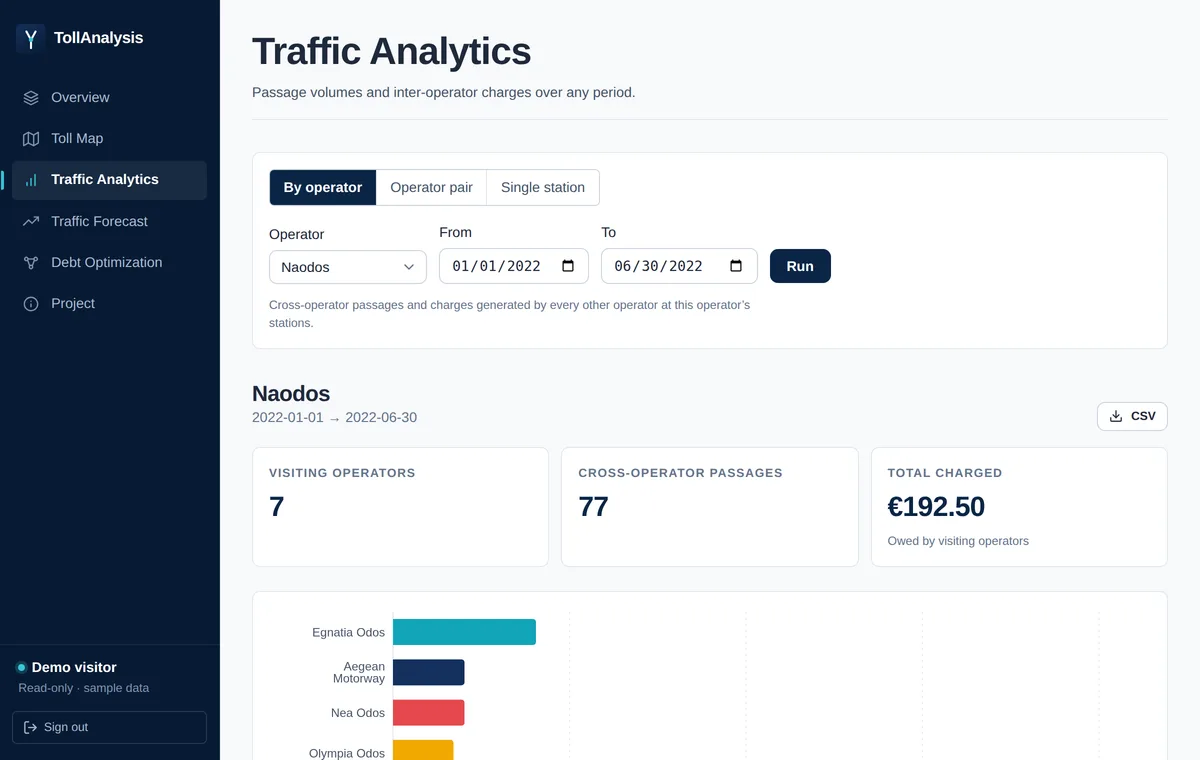
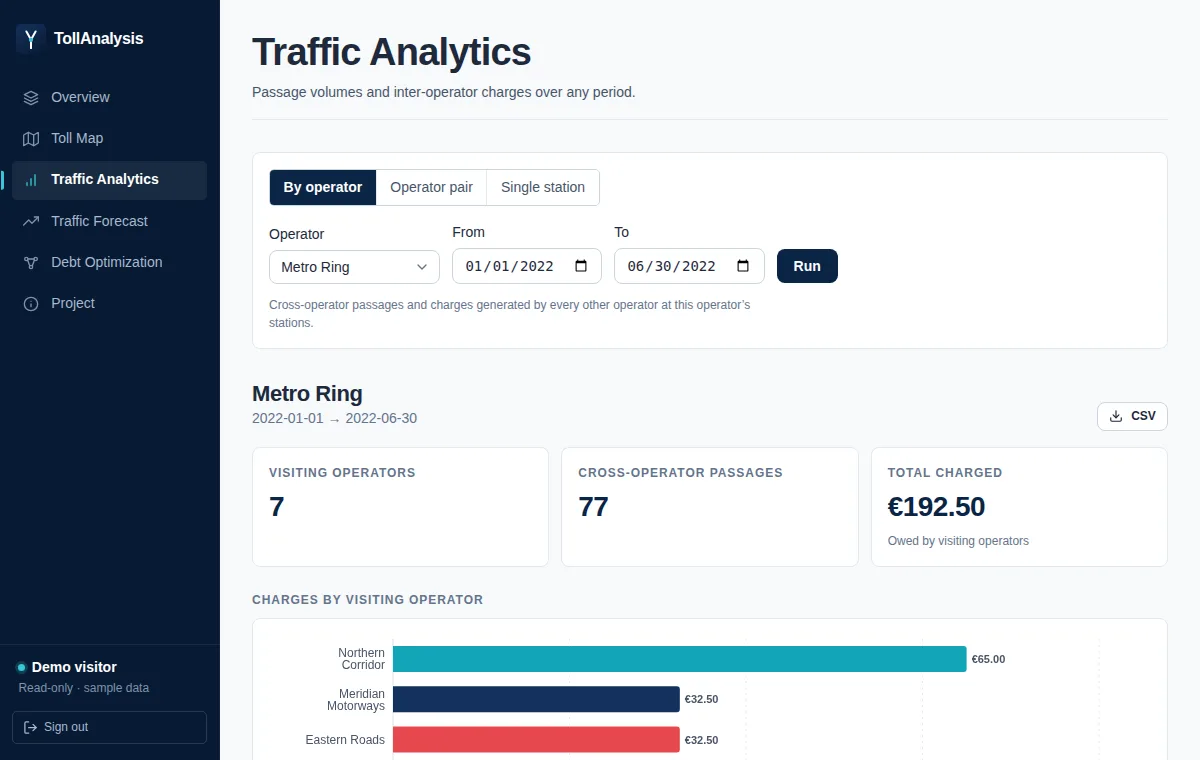
docs(readme): prepare portfolio entry point and verified demo guide

diff --git a/README.md b/README.md
@@ -1,126 +1,170 @@
-# Toll Passages Management and Analysis WebApp
+# TollAnalysis
 
-A full-stack web application for managing and analyzing toll passages in Greece. Developed as part of the Software Engineering course at ECE NTUA by Dimitris Thivaios, Dimitris Liakis, Vassilis Anastasiadis, and Stavros.
+**An interactive full-stack platform for exploring toll stations, traffic flows, cross-operator charges, and settlement networks across a Greek-inspired road system.**
 
----
+TollAnalysis is an independent educational portfolio application with a secured, read-only public-demo mode. It is deployment-ready, but no public deployment is currently running.
 
-## 🚀 Features
+> Passages, debts, contacts, and public operator names are fictional. Geography is used for demonstration only; this project is not affiliated with, endorsed by, or operated by any Greek motorway operator.
 
-- Interactive map of Greece with all toll stations (Leaflet.js)
-- Predictions of car flows using Machine Learning models
-- Statistics for all tolling companies
-- Debt optimization between companies (cross e-pass usage)
-- CLI client for admin and company management
-- API documentation (Swagger/OpenAPI)
-- Comprehensive testing (Jest)
+## Product preview
 
----
+| Overview | Toll Map | Traffic Analytics |
+| --- | --- | --- |
+| ![Overview](front-end/src/assets/shot-overview.webp) | ![Toll Map](front-end/src/assets/shot-map.webp) | ![Traffic Analytics](front-end/src/assets/shot-analytics.webp) |
 
-## 🛠 Technology Stack
+The browser demo also includes Forecasting Integration and an interactive before/after PyVis debt-optimization graph. Start it with **Explore Live Demo**; no password is published or required. After starting a session, the graph is available at [`/debts`](http://localhost:9115/debts).
 
-- **Backend:** Node.js / Express (REST API)
-- **Frontend:** React.js
-- **Database:** MySQL
-- **Machine Learning:** scikit-learn (Python)
-- **Testing:** Jest
+## What it does
 
----
+- Explores 253 toll stations across eight fictional display operators.
+- Analyses operator totals, operator pairs, and individual-station passages; supported views export CSV.
+- Runs pre-trained Python/scikit-learn volume and peak-hour inference.
+- Shows a precomputed debt-netting result as a settlement table and interactive before/after graph.
+- Provides a short-lived, platform-wide, read-only demo identity.
 
-## 📦 Setup Instructions
+## Features and access
 
-### 1. Clone the Repository
+Landing/demo entry starts `POST /api/auth/demo-login` with no input. The app includes Overview, a clustered/filterable Toll Map, three Traffic Analytics modes (by operator, pair, station), Forecasting Integration, Debt Optimization with a sandboxed PyVis graph, and a Project/methodology page.
+
+| Capability | Anonymous browser visitor | Read-only demo user | Company user (local) | Admin (local) |
+| --- | ---: | ---: | ---: | ---: |
+| Landing, Project, and static content | yes | yes | yes | yes |
+| Browser Toll Map (`/map`) | yes | yes | yes | yes |
+| Public toll data API (`GET /api/tolls`) | yes | yes | yes | yes |
+| Authenticated Overview | no | yes | yes | yes |
+| Analytics and forecasting | no | yes | yes, subject to company scope when enabled | yes |
+| Debt visualization | no | yes | yes | yes |
+| Upload/import, training, reset, and other mutations | no | no | no | admin only when explicitly enabled |
+
+An anonymous visitor can open the browser map directly; it reads the intentionally public `GET /api/tolls` endpoint. That is the only unauthenticated toll/traffic data endpoint. Health, liveness, public configuration, and API documentation endpoints are also unauthenticated, but expose operational metadata or documentation rather than traffic data. All other application pages that show analytics, forecasts, or debts require a valid demo or local-user session.
+
+Stable internal codes (`AM`, `EG`, `GE`, `KO`, `MO`, `NAO`, `NO`, `OO`) and legacy role strings remain for API, database, and model compatibility; they are identifiers, not public brands.
+
+| Code | Fictional display alias |
+| --- | --- |
+| AM | Meridian Motorways |
+| EG | Northern Corridor |
+| GE | Gulf Crossing |
+| KO | Central Routes |
+| MO | Southern Link |
+| NAO | Metro Ring |
+| NO | Eastern Roads |
+| OO | Western Corridor |
+
+## Architecture
+
+```mermaid
+flowchart LR
+  B[Browser / React] -->|same origin /api| E[Express API]
+  E --> M[(Private MySQL)]
+  E --> P[Packaged Python inference]
+  P --> A[Versioned ML artifacts]
+  E -->|serves| B
+```
+
+One container serves the React build and Express API on the same origin, avoiding browser CORS complexity. MySQL remains private behind that application endpoint.
+
+## Engineering highlights
+
+Stavros Mitropoulos completed the later `portfolio-demo` overhaul; the original team-project attribution is retained below.
+
+- **Product and demo experience:** responsive React pages, a public Toll Map, and a short-lived read-only demo session with no published credentials.
+- **Full-stack architecture:** one same-origin application container serves the React build and Express API, backed by a private MySQL service with deterministic initialization and pooled connections.
+- **Authentication and authorization:** JWT-based roles separate demo, company, and admin capabilities; operator-scoped analytics can enforce company isolation.
+- **Runtime security and reliability:** production configuration fails closed, destructive operations can be disabled, health endpoints distinguish liveness from database readiness, and user-facing errors avoid internals.
+- **ML inference integration:** versioned Python/scikit-learn artifacts are invoked through bounded inference requests and documented with chronological evaluation and explicit sample-data limits.
+- **Testing and reproducibility:** frontend, backend, disposable-database integration, ML-container, browser-journey, and visual smoke checks cover the packaged stack.
+- **Deployment readiness:** Docker Compose, environment/secrets guidance, database lifecycle notes, and platform health checks support a future deployment without claiming one exists today.
+
+## Honest ML scope
+
+The included dataset has **1,002 fictional/sample passages across about 15 dates**. The models are not production-grade traffic predictors and often do not outperform simple baselines. They demonstrate reproducible preprocessing, artifact versioning, inference serving, and honest evaluation. A real system would need substantially more real historical data. See [ML methodology](docs/ML_METHODOLOGY.md).
+
+## Quick start
+
+These commands assume the completed repository has been cloned from its default `main` branch.
 
 ```bash
-git clone https://github.com/ntua/softeng24-14.git
+git clone https://github.com/StavrosMitro/TollAnalysisWebApp.git
 cd TollAnalysisWebApp
+export JWT_SECRET="$(openssl rand -hex 32)"
+export PUBLIC_DEMO_MODE=true
+export DISABLE_DESTRUCTIVE_OPS=true
+docker compose up --build -d
+curl -fsS http://localhost:9115/livez
+curl -fsS http://localhost:9115/healthz
 ```
 
-### 2. Database Setup (MySQL)
+Open <http://localhost:9115>, then click **Explore Live Demo**. Stop without deleting local data: `docker compose down`.
 
-- Install MySQL Server (v5.7+ recommended).
-- Create and populate the database:
-  - Go to `/uploads` and run:
-    ```bash
-    python3 passages2mysql.py passes14.csv
-    ```
-  - In `/Database_mysql`, import schema and data:
-    ```bash
-    mysql -u root -p < schema.sql
-    mysql -u root -p < data.sql
-    ```
-- See `/Database_mysql/README.md` for detailed steps.
+To remove the local database volume, use `docker compose down -v` only after confirming this is the disposable local demonstration stack; it permanently deletes local data.
 
-### 3. Backend Setup
+## Demo API examples
+
+Set `BASE` to `http://localhost:9115` locally (replace it with the future live URL when available).
 
 ```bash
-cd back-end
-npm install
-node server.js
+BASE=http://localhost:9115
+TOKEN="$(curl -fsS -X POST "$BASE/api/auth/demo-login" | jq -er '.token')"
+
+curl -fsS -H "x-observatory-auth: $TOKEN" \
+  "$BASE/api/chargesBy/NAO/20220101/20220114" | jq .
+curl -fsS -H "x-observatory-auth: $TOKEN" \
+  "$BASE/api/forecast/NAO/20220114" | jq .
+curl -fsS "$BASE/api/tolls" | jq '.[0:3]'
+
+# The demo identity is not an admin identity, so this mutation is denied: 403.
+curl -sS -o /dev/null -w '%{http_code}\n' -X POST \
+  -H "x-observatory-auth: $TOKEN" "$BASE/api/upload_passages"
 ```
 
-### 4. Frontend Setup
+Browser sessions are short-lived, fictional, platform-wide, and read-only.
+
+## Configuration, testing, and deployment
+
+Use [`.env.example`](.env.example) for local Compose overrides. Important non-secret settings include `PUBLIC_DEMO_MODE`, `DISABLE_DESTRUCTIVE_OPS`, `TRUST_PROXY`, inference timeout/concurrency, and port/database host settings. `JWT_SECRET` and `PASSWORD` are secrets and belong in a provider secret store, never Git.
 
 ```bash
-cd front-end
-npm install
-npm start
+cd front-end && CI=true npm test -- --watchAll=false && CI=true npm run build
+cd ../back-end && npm test -- --runInBand && npm run test:integration # Docker required
+cd ..
+docker compose --profile ml run --rm ml -m ml.tests
+docker compose --profile ml run --rm ml -m ml.smoke_test
+cd front-end && npm run visual-check # running stack + Chromium required
 ```
 
-### 5. CLI Client Setup
+Deploy one application container beside private persistent MySQL, store secrets with the provider, import the fictional seed once into an empty database, configure `/healthz`, and retain backups. Public mode requires `PUBLIC_DEMO_MODE=true` and `DISABLE_DESTRUCTIVE_OPS=true`. Railway is currently recommended, not an existing deployment. See the [deployment runbook](docs/DEPLOYMENT.md).
 
-```bash
-cd cli-client
-npm install
-npm link
-se2414 --help
+## Repository map and documentation
+
+```text
+front-end/       React application, assets, tests, visual checker
+back-end/        Express API, auth, ML bridge, tests, Docker runtime source
+db/init/         deterministic schema and fictional Compose seed
+docs/            deployment, authorization, ML, debt, and asset documentation
+Database_mysql/  preserved academic SQL/material and source data
+cli-client/      legacy course CLI client
 ```
 
----
+- [Swagger/OpenAPI](http://localhost:9115/api/docs) (when local stack runs)
+- [Authorization matrix](docs/AUTHORIZATION.md)
+- [ML methodology](docs/ML_METHODOLOGY.md)
+- [Deployment guide](docs/DEPLOYMENT.md)
+- [Technical debt](docs/TECH_DEBT.md)
+- [Third-party assets](docs/THIRD_PARTY_ASSETS.md)
 
-## 🔐 Demo access
+## Limitations, attribution, and disclaimer
 
-The portfolio deployment uses a no-credential, read-only demo session. Operator
-and administrator fixtures exist only for local development and disposable test
-databases; their credentials are deliberately not documented for public use.
+The data is fictional and tiny; PyVis depends on runtime CDNs; the legacy importer is disabled publicly; CRA migration is deferred; and real imports would need an atomic background pipeline. There is no claim of real traffic-forecasting accuracy.
 
----
+The academic foundation was developed by the NTUA ECE Software Engineering team. The contribution split is intentionally explicit:
 
-## 📖 Documentation
+| Contributor | Verified contribution |
+| --- | --- |
+| Dimitris Thivaios, Dimitris Liakis, Vassilis Anastasiadis, and Stavros Mitropoulos | Original academic application and engineering foundation as a team project |
+| Stavros Mitropoulos | Original REST API/backend development, relational database design, documentation, and API functional testing |
+| Stavros Mitropoulos — later `portfolio-demo` line | Product direction and portfolio positioning; frontend/transportation identity; public-demo UX; authentication/authorization hardening; Docker/deployment architecture; reproducible database setup; ML integrity and artifact serving; test expansion; security/dependency hardening; documentation and deployment preparation |
 
-- UML Diagrams (Activity, Class, Component, Deployment, Sequence)
-- ER Diagrams
-- SRS (Software Requirements Specification)
-- StRS (Stakeholders Requirements Specification)
-- OpenAPI/Swagger docs: [http://localhost:9115/api/docs](http://localhost:9115/api/docs)
+The original application was a group effort; later portfolio-line work listed above is Stavros's own. The display aliases in this README and the application are fictional names layered over stable internal codes, not new legal entities.
 
----
-
-## ⚠ Troubleshooting
-
-- **Port Already in Use:**  
-  Use `lsof -i :<PORT>` and `kill -9 <PID>` to free the port.
-- **Missing Dependencies:**  
-  Run `npm install` in each directory.
-- **Database Issues:**  
-  Ensure schema and data are imported correctly.
-
----
-
-## 👥 Credits & Contributions
-
-As part of this project, my main focus was on:
-- Developing REST API backend using Node.js and Express
-- Designing the database
-- Contributing to documentation
-- Conducting API functional testing
-
-![image](https://github.com/user-attachments/assets/ffa85471-cacc-44a6-8ac8-006ad04db8a7)
-
-Other contributors:
-- Dimitris Thivaios, Dimitris Liakis, Vassilis Anastasiadis
-
----
-
-## ⭐ Give us a star if you liked the project!
-
-_Disclaimer: This project is for educational purposes only and not intended for commercial use._
+No license is currently declared; adding one is a separate decision. Third-party map/photo assets retain their own attribution and terms; see [third-party assets](docs/THIRD_PARTY_ASSETS.md).
